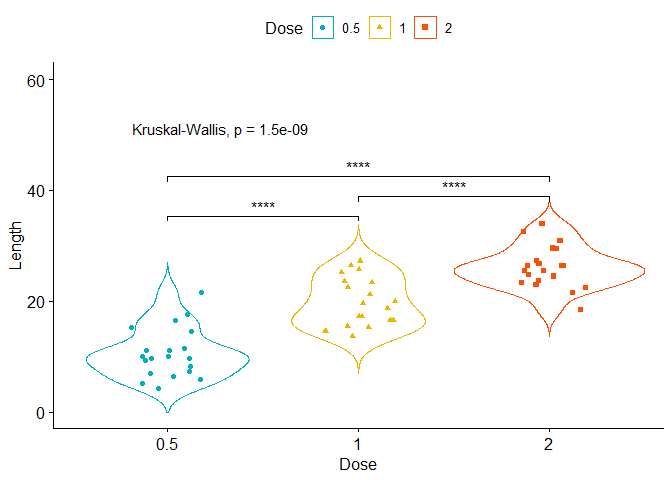
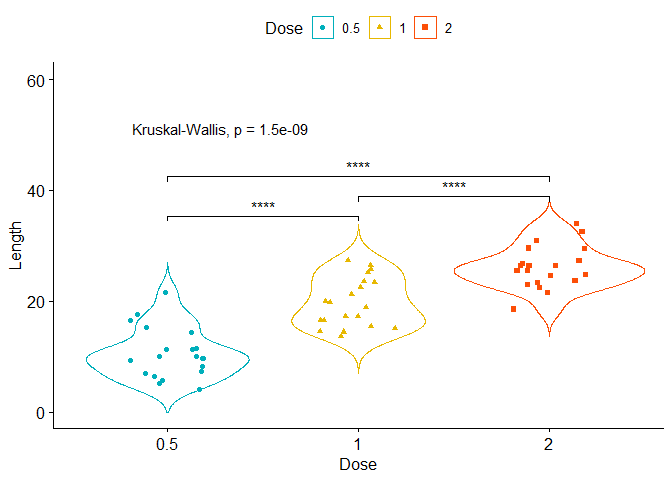
Add files via upload

diff --git a/Publication_Ready_Figures/03-ggpubr/03-ggpubr-readme-.md b/Publication_Ready_Figures/03-ggpubr/03-ggpubr-readme-.md
@@ -62,12 +62,6 @@ p1 <- ggboxplot(ToothGrowth, x = "dose", y = "len",
 
 ![](03-ggpubr-readme-_files/figure-gfm/unnamed-chunk-3-1.png)<!-- -->
 
-``` r
-p1
-```
-
-![](03-ggpubr-readme-_files/figure-gfm/unnamed-chunk-3-2.png)<!-- -->
-
 ## showing mean comparisons
 
 Specify the comparisons you want
@@ -124,7 +118,7 @@ p1 <- p1 + stat_compare_means(comparisons = my_comparisons)+ # Add pairwise comp
 
 ![](03-ggpubr-readme-_files/figure-gfm/unnamed-chunk-7-1.png)<!-- -->
 
-# multiple grouping variable
+# Multiple grouping variable
 
 ## Box plot facetted by “dose”
 
@@ -146,42 +140,64 @@ p2 <- p2 + stat_compare_means(
 
 ![](03-ggpubr-readme-_files/figure-gfm/unnamed-chunk-8-2.png)<!-- -->
 
+# Making (Converting boxplots) into violin plots
+
 ``` r
-p2
+p3 <- ggviolin(ToothGrowth, x = "dose", y = "len",
+                color = "dose", palette =c("#00AFBB", "#E7B800", "#FC4E07"),
+                add = "jitter", shape = "dose", 
+                xlab = "Dose", ylab = "Length", legend.title="Dose");p3
 ```
 
-![](03-ggpubr-readme-_files/figure-gfm/unnamed-chunk-8-3.png)<!-- -->
+![](03-ggpubr-readme-_files/figure-gfm/unnamed-chunk-9-1.png)<!-- -->
 
-|                                                                                                                                                                                                             |
-|-------------------------------------------------------------------------------------------------------------------------------------------------------------------------------------------------------------|
-| # Making (Converting boxplots) into violin plots                                                                                                                                                            |
-| `r p3 <- ggviolin(ToothGrowth, x = "dose", y = "len", color = "dose", palette =c("#00AFBB", "#E7B800", "#FC4E07"), add = "jitter", shape = "dose", xlab = "Dose", ylab = "Length", legend.title="Dose");p3` |
-| ![](03-ggpubr-readme-_files/figure-gfm/unnamed-chunk-9-1.png)<!-- -->                                                                                                                                       |
-| `r p3`                                                                                                                                                                                                      |
-| ![](03-ggpubr-readme-_files/figure-gfm/unnamed-chunk-9-2.png)<!-- -->                                                                                                                                       |
-| # show mean comparisons and Specify the comparisons you want                                                                                                                                                |
-| `r my_comparisons <- list( c("0.5", "1"), c("1", "2"), c("0.5", "2") )`                                                                                                                                     |
-| # show significant stars                                                                                                                                                                                    |
-| `r p3 <- p3 + stat_compare_means(comparisons = my_comparisons, method = "t.test", label = "p.signif")+ # Add pairwise comparisons p-value stat_compare_means(label.y = 50)+ylim(0,60);p3`                   |
-| `## Warning: Removed 25 rows containing missing values (geom_violin).`                                                                                                                                      |
-| ![](03-ggpubr-readme-_files/figure-gfm/unnamed-chunk-11-1.png)<!-- -->                                                                                                                                      |
-| `r p3`                                                                                                                                                                                                      |
-| `## Warning: Removed 25 rows containing missing values (geom_violin).`                                                                                                                                      |
-| ![](03-ggpubr-readme-_files/figure-gfm/unnamed-chunk-11-2.png)<!-- -->                                                                                                                                      |
-| ## 4- Violin plots with box plots inside                                                                                                                                                                    |
-| `r p4 <- ggviolin(ToothGrowth, x = "supp", y = "len", fill = "supp", palette = "npg", facet.by = "dose", short.panel.labs = FALSE, add = "boxplot", add.params = list(fill = "white"));p4`                  |
-| ![](03-ggpubr-readme-_files/figure-gfm/unnamed-chunk-12-1.png)<!-- -->                                                                                                                                      |
-| `r p4`                                                                                                                                                                                                      |
-| ![](03-ggpubr-readme-_files/figure-gfm/unnamed-chunk-12-2.png)<!-- -->                                                                                                                                      |
-| ### Use only p.format as label. Remove method name.                                                                                                                                                         |
-| `r p4 <- p4 + stat_compare_means( aes(label = paste0("p = ", ..p.format..)) );p4`                                                                                                                           |
-| ![](03-ggpubr-readme-_files/figure-gfm/unnamed-chunk-13-1.png)<!-- -->                                                                                                                                      |
-| `r p4`                                                                                                                                                                                                      |
-| ![](03-ggpubr-readme-_files/figure-gfm/unnamed-chunk-13-2.png)<!-- -->                                                                                                                                      |
-| `r p4 <- p4 + stat_compare_means( aes(label = paste0(..p.signif..)) );p4`                                                                                                                                   |
-| ![](03-ggpubr-readme-_files/figure-gfm/unnamed-chunk-13-3.png)<!-- -->                                                                                                                                      |
-| `r p4`                                                                                                                                                                                                      |
-| ![](03-ggpubr-readme-_files/figure-gfm/unnamed-chunk-13-4.png)<!-- -->                                                                                                                                      |
+# show mean comparisons and Specify the comparisons you want
+
+``` r
+my_comparisons <- list( c("0.5", "1"), c("1", "2"), c("0.5", "2") )
+```
+
+# show significant stars
+
+``` r
+p3 <- p3 + stat_compare_means(comparisons = my_comparisons,
+                        method = "t.test",
+                        label = "p.signif")+ # Add pairwise comparisons p-value
+  stat_compare_means(label.y = 50)+ylim(0,60);p3
+```
+
+    ## Warning: Removed 25 rows containing missing values (geom_violin).
+
+![](03-ggpubr-readme-_files/figure-gfm/unnamed-chunk-11-1.png)<!-- -->
+
+## 4- Violin plots with box plots inside
+
+``` r
+p4 <- ggviolin(ToothGrowth, x = "supp", y = "len",
+                fill = "supp", palette = "npg",
+                facet.by = "dose", short.panel.labs = FALSE,
+               add = "boxplot", add.params = list(fill = "white"));p4
+```
+
+![](03-ggpubr-readme-_files/figure-gfm/unnamed-chunk-12-1.png)<!-- -->
+
+### Use only p.format as label. Remove method name.
+
+``` r
+p4 <- p4 + stat_compare_means(
+  aes(label = paste0("p = ", ..p.format..))
+);p4
+```
+
+![](03-ggpubr-readme-_files/figure-gfm/unnamed-chunk-13-1.png)<!-- -->
+
+``` r
+p4 <- p4 + stat_compare_means(
+  aes(label = paste0(..p.signif..))
+);p4
+```
+
+## ![](03-ggpubr-readme-_files/figure-gfm/unnamed-chunk-13-2.png)<!-- -->
 
 ############################################################### 
 
@@ -207,6 +223,7 @@ ggarrange(p1, p2, p3,p4 + rremove("x.text"),
     ## Warning: Removed 25 rows containing missing values (geom_violin).
 
 ![](03-ggpubr-readme-_files/figure-gfm/unnamed-chunk-14-1.png)<!-- -->
+
 **saving High quality plot in working directory**
 
     ggarrange(p1, p2, p3,p4 + rremove("x.text"), 
@@ -236,7 +253,8 @@ ggarrange(p1,                                                 # First row with b
     ## cannot compute exact p-value with ties
 
 ![](03-ggpubr-readme-_files/figure-gfm/unnamed-chunk-15-1.png)<!-- -->
-**saving plot**
+
+**saving plot in current working directory**
 
     ggarrange(p1,                                                 # First row with boxplt
               ggarrange(p2, p3, ncol = 2, labels = c("B", "C")), # Second row with violinplot
